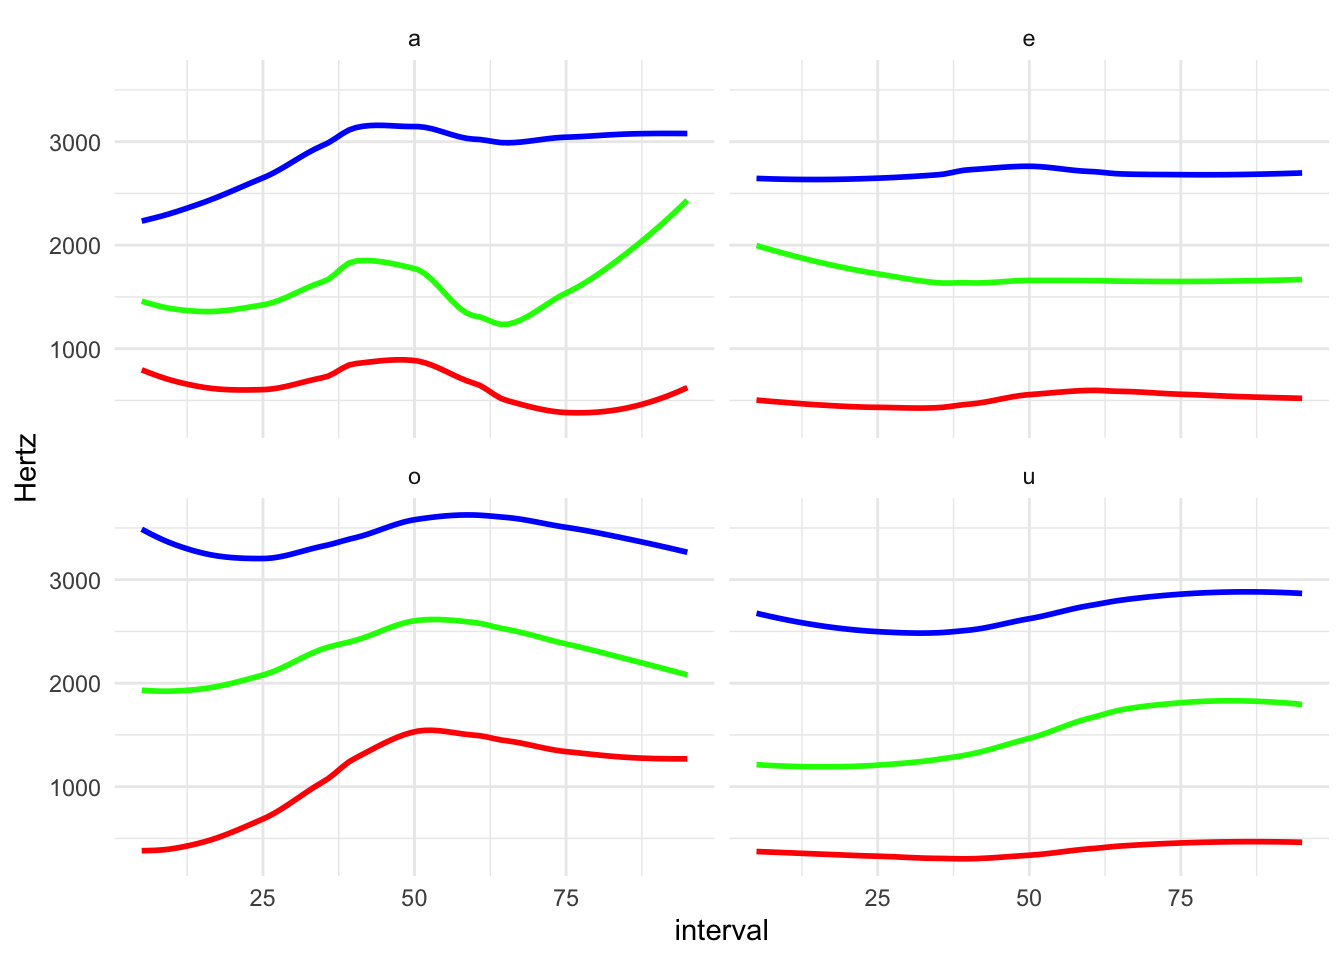
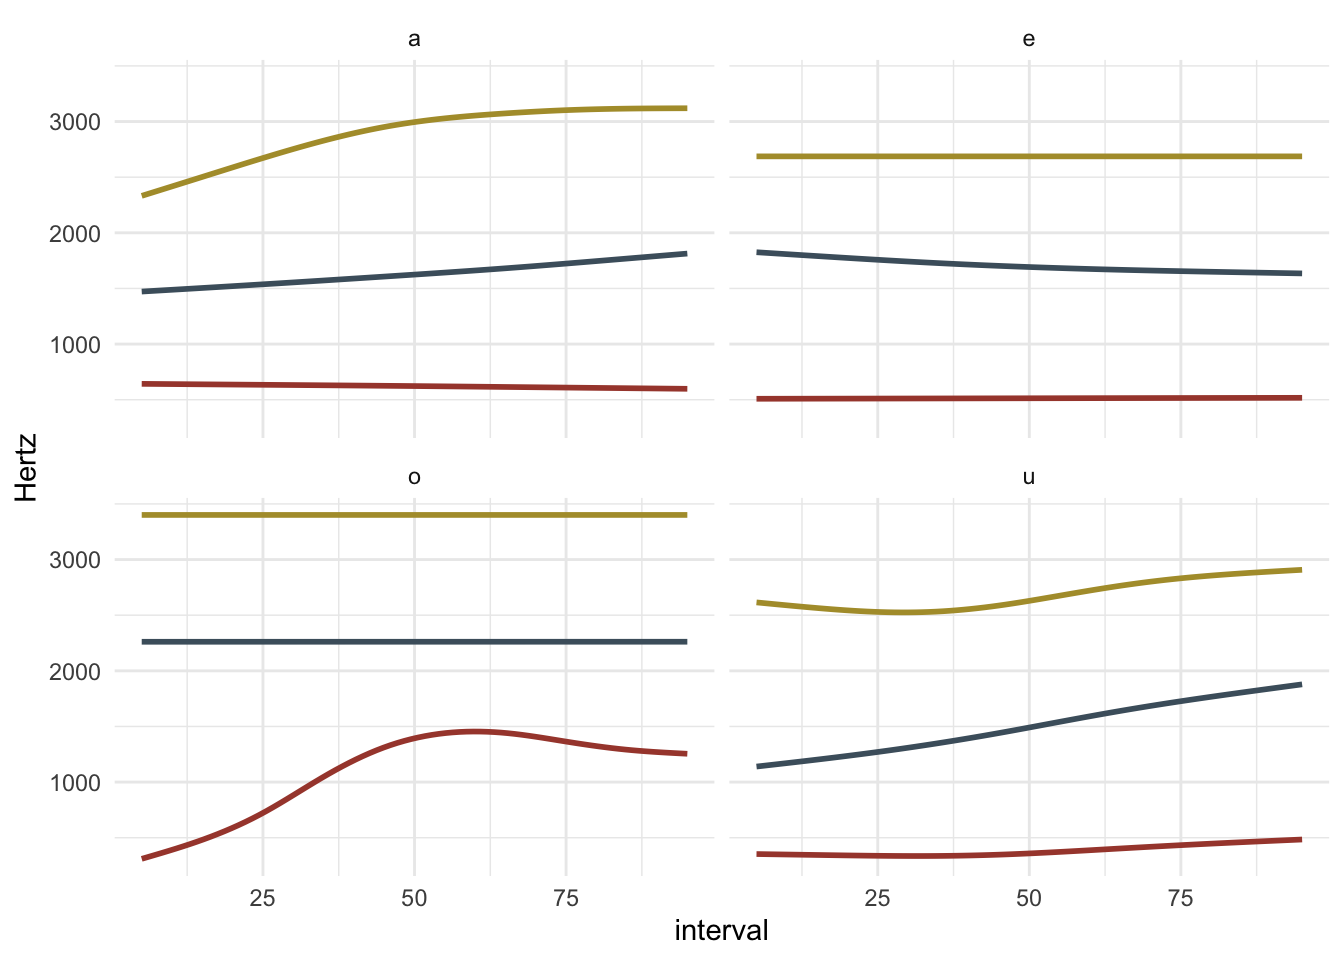
:bug: - use pivot functions

diff --git a/content/post/2018-03-02-formants-tidy/index.html b/content/post/2018-03-02-formants-tidy/index.html
@@ -23,13 +23,12 @@ cls: unified-style-sheet-for-linguistics.csl
 <script src="{{< blogdown/postref >}}index_files/header-attrs/header-attrs.js"></script>
 
 
-<p>With the advent of more powerful statistical methods for accessing time series data, it is now more common to compare whole vowel formant trajectories rather then just using average formant values.</p>
-<p>Sometimes, the output of the Praat script used for extracting formats data gives us a ‘wide format’ dataset.
-In this format, separate columns contain formant values for each interval within the vowel.
-Normally, values are extracted every 10% or 5% intervals within the vowel.</p>
-<p>To work with formant trajectories data in <code>R</code>, we need instead a ‘long format’ dataset.
-In a long format dataset, the percent intervals are layed out in rows, rather then columns.</p>
-<p>We start by reading in the formant data, which were kindly provided by <a href="http://tiny.cc/sjn">Stephen Nichols</a>.</p>
+<p>With the advent of more powerful statistical methods for assessing time series data, it is now becoming more common to compare whole vowel formant trajectories rather then just using average values.</p>
+<p>In this post I will show how to tidy a formant measurements dataset and plot formants using the tidyverse <span class="citation">(<a href="#ref-wickham2017" role="doc-biblioref">Wickham 2017</a>)</span>.</p>
+<div id="from-wide-to-long" class="section level1">
+<h1>From wide to long</h1>
+<p>To illustrate the process, I will use formant data that was kindly provided by <a href="http://tiny.cc/sjn">Stephen Nichols</a>.</p>
+<p>Let’s first read in the data.</p>
 <pre class="r"><code>trajectories &lt;- read_csv(&quot;./static/data/nichols-2018/tulemupepelako.csv&quot;)</code></pre>
 <pre><code>## 
 ## ── Column specification ────────────────────────────────────────────────────────
@@ -60,58 +59,62 @@ In a long format dataset, the percent intervals are layed out in rows, rather th
 ## #   F3_25 &lt;dbl&gt;, F3_30 &lt;dbl&gt;, F3_35 &lt;dbl&gt;, F3_40 &lt;dbl&gt;, F3_45 &lt;dbl&gt;,
 ## #   F3_50 &lt;dbl&gt;, F3_55 &lt;dbl&gt;, F3_60 &lt;dbl&gt;, F3_65 &lt;dbl&gt;, F3_70 &lt;dbl&gt;,
 ## #   F3_75 &lt;dbl&gt;, F3_80 &lt;dbl&gt;, F3_85 &lt;dbl&gt;, F3_90 &lt;dbl&gt;, F3_95 &lt;dbl&gt;</code></pre>
-<p>The dataset contains formant values of F1-F3 at 5% intervals for the vowels of the word <em>tulemupepelako</em> ‘we are praying for her’ (Bemba, [<code>bemb1257</code>]).
-It’s a toy dataset of course, just for purpose of illustration, so not very exciting!</p>
-<p>The values for each 5% interval for each formant are in separate columns.
-For plotting and modelling, though, we need the data to be in a ‘tidy’ format <span class="citation">(<a href="#ref-wickham2014" role="doc-biblioref">Wickham 2014</a>)</span>:</p>
-<ul>
-<li>each observation unit is in a separate row</li>
-<li>each variable is a separate column</li>
-</ul>
-<p>In our case, each observation unit is a 5% interval.
-As for the variables, they are: time in the recording, word, vowel, vowel duration, F1, F2, and F3.</p>
-<p>The first step towards a long format data set is to gather all the columns that have formant values to a column indicating the formant plus interval (like ‘F1_05’) and the value of that formant in that interval.
-We can use <code>gather()</code> for this.</p>
-<p>In the following chunks, I will illustrate the results of each step separately by saving the output of the functions to variables.
-Later in this post, you’ll find a pipe chain with all functions without intermediate outputs.</p>
-<pre class="r"><code>trajectories_gath &lt;- gather(trajectories, &quot;formant&quot;, &quot;value&quot;, F1_05:F3_95)
-trajectories_gath</code></pre>
+<p>The dataset contains formant values of F1-F3 at 5% intervals for the vowels in the word <em>tulemupepelako</em> ‘we are praying for her’ (Bemba, [<code>bemb1257</code>]).</p>
+<p>In the first step, we will create two columns, one with the formant/interval label and one with the formant value, using <code>pivot_longer()</code>.</p>
+<pre class="r"><code>trajectories_long &lt;- pivot_longer(
+  trajectories,
+  F1_05:F3_95,
+  names_to = &quot;formant_int&quot;,
+  values_to = &quot;value&quot;)
+
+trajectories_long</code></pre>
 <pre><code>## # A tibble: 399 x 6
-##     Time Vowel Word           Duration formant value
-##    &lt;dbl&gt; &lt;chr&gt; &lt;chr&gt;             &lt;dbl&gt; &lt;chr&gt;   &lt;dbl&gt;
-##  1  194. u     tulemupepelako     43.3 F1_05    406.
-##  2  194. e     tulemupepelako    103.  F1_05    503.
-##  3  194. u     tulemupepelako     14.1 F1_05    290.
-##  4  194. e     tulemupepelako     75.7 F1_05    440.
-##  5  194. e     tulemupepelako     68.2 F1_05    437.
-##  6  195. a     tulemupepelako     89.8 F1_05    800.
-##  7  195. o     tulemupepelako     98.5 F1_05    482.
-##  8  194. u     tulemupepelako     43.3 F1_10    439.
-##  9  194. e     tulemupepelako    103.  F1_10    517.
-## 10  194. u     tulemupepelako     14.1 F1_10    288.
+##     Time Vowel Word           Duration formant_int value
+##    &lt;dbl&gt; &lt;chr&gt; &lt;chr&gt;             &lt;dbl&gt; &lt;chr&gt;       &lt;dbl&gt;
+##  1  194. u     tulemupepelako     43.3 F1_05        406.
+##  2  194. u     tulemupepelako     43.3 F1_10        439.
+##  3  194. u     tulemupepelako     43.3 F1_15        453.
+##  4  194. u     tulemupepelako     43.3 F1_20        456.
+##  5  194. u     tulemupepelako     43.3 F1_25        430.
+##  6  194. u     tulemupepelako     43.3 F1_30        357.
+##  7  194. u     tulemupepelako     43.3 F1_35        314.
+##  8  194. u     tulemupepelako     43.3 F1_40        288.
+##  9  194. u     tulemupepelako     43.3 F1_45        286.
+## 10  194. u     tulemupepelako     43.3 F1_50        327.
 ## # … with 389 more rows</code></pre>
-<p>Now we have a column <code>formant</code> with the formant plus interval label, and a column <code>value</code> with its value (in Hertz in our case).</p>
-<p>The next step is to separate the label of the formant plus interval into two separate columns: one for <code>formant</code>, and one for <code>interval</code>.</p>
-<pre class="r"><code>trajectories_sep &lt;- separate(trajectories_gath, formant, c(&quot;formant&quot;, &quot;interval&quot;), convert = TRUE)
+<p>The next step is to separate the <code>formant_int</code> column into two columns: one for <code>formant</code>, and one for <code>interval</code>.
+The argument <code>convert = TRUE</code> ensures that the <code>interval</code> column is converted into a numeric column.</p>
+<pre class="r"><code>trajectories_sep &lt;- separate(
+  trajectories_long,
+  formant_int,
+  c(&quot;formant&quot;, &quot;interval&quot;),
+  convert = TRUE
+)
+
 trajectories_sep</code></pre>
 <pre><code>## # A tibble: 399 x 7
 ##     Time Vowel Word           Duration formant interval value
 ##    &lt;dbl&gt; &lt;chr&gt; &lt;chr&gt;             &lt;dbl&gt; &lt;chr&gt;      &lt;int&gt; &lt;dbl&gt;
 ##  1  194. u     tulemupepelako     43.3 F1             5  406.
-##  2  194. e     tulemupepelako    103.  F1             5  503.
-##  3  194. u     tulemupepelako     14.1 F1             5  290.
-##  4  194. e     tulemupepelako     75.7 F1             5  440.
-##  5  194. e     tulemupepelako     68.2 F1             5  437.
-##  6  195. a     tulemupepelako     89.8 F1             5  800.
-##  7  195. o     tulemupepelako     98.5 F1             5  482.
-##  8  194. u     tulemupepelako     43.3 F1            10  439.
-##  9  194. e     tulemupepelako    103.  F1            10  517.
-## 10  194. u     tulemupepelako     14.1 F1            10  288.
+##  2  194. u     tulemupepelako     43.3 F1            10  439.
+##  3  194. u     tulemupepelako     43.3 F1            15  453.
+##  4  194. u     tulemupepelako     43.3 F1            20  456.
+##  5  194. u     tulemupepelako     43.3 F1            25  430.
+##  6  194. u     tulemupepelako     43.3 F1            30  357.
+##  7  194. u     tulemupepelako     43.3 F1            35  314.
+##  8  194. u     tulemupepelako     43.3 F1            40  288.
+##  9  194. u     tulemupepelako     43.3 F1            45  286.
+## 10  194. u     tulemupepelako     43.3 F1            50  327.
 ## # … with 389 more rows</code></pre>
-<p>Now we can create individual columns for each formant from F1 to F3.
-We can achieve this with <code>spread()</code>.</p>
-<pre class="r"><code>trajectories_spr &lt;- spread(trajectories_sep, formant, value)
-trajectories_spr</code></pre>
+<p>Now we can put back the formant labels into one column each.
+We can achieve this with <code>pivot_wider()</code>, the counterpart of <code>pivo_longer()</code>.</p>
+<pre class="r"><code>trajectories_wide &lt;- pivot_wider(
+  trajectories_sep,
+  names_from = formant,
+  values_from = value
+)
+
+trajectories_wide</code></pre>
 <pre><code>## # A tibble: 133 x 8
 ##     Time Vowel Word           Duration interval    F1    F2    F3
 ##    &lt;dbl&gt; &lt;chr&gt; &lt;chr&gt;             &lt;dbl&gt;    &lt;int&gt; &lt;dbl&gt; &lt;dbl&gt; &lt;dbl&gt;
@@ -126,32 +129,37 @@ trajectories_spr</code></pre>
 ##  9  194. u     tulemupepelako     43.3       45  286. 1712. 2461.
 ## 10  194. u     tulemupepelako     43.3       50  327. 1747. 2470.
 ## # … with 123 more rows</code></pre>
-<p>What we have now is a long format dataset, with separate columns for each formant, and individual rows for each vowel interval.</p>
-<div id="the-pipe-chain" class="section level2">
-<h2>The pipe chain</h2>
-<p>All the steps above can be chained by using the pipe <code>%&gt;%</code>.</p>
+<p>We now have a dataset with separate columns for each formant and individual rows for each vowel interval.</p>
+<div id="the-pipe" class="section level2">
+<h2>The pipe</h2>
+<p>All the individual steps above can be chained by using the pipe <code>%&gt;%</code>.
+What the pipe does is simply “transferring” the output of the function before it as the input of the function after it.</p>
 <pre class="r"><code>trajectories &lt;- trajectories %&gt;%
-  gather(&quot;formant&quot;, &quot;value&quot;, F1_05:F3_95) %&gt;%
-  separate(formant, c(&quot;formant&quot;, &quot;interval&quot;), convert = TRUE) %&gt;%
-  spread(formant, value)</code></pre>
-<p>We can finally easily plot the formant trajectories.</p>
+  pivot_longer(F1_05:F3_95, names_to = &quot;formant_int&quot;, values_to = &quot;value&quot;) %&gt;%
+  separate(formant_int, c(&quot;formant&quot;, &quot;interval&quot;), convert = TRUE) %&gt;%
+  pivot_wider(names_from = formant, values_from = value)</code></pre>
+</div>
+</div>
+<div id="plot" class="section level1">
+<h1>Plot</h1>
+<p>We can finally plot the formant trajectories.</p>
 <pre class="r"><code>trajectories %&gt;%
   ggplot(aes(x = interval)) +
-  geom_smooth(aes(y = F1), se = FALSE, colour = &quot;red&quot;) +
-  geom_smooth(aes(y = F2), se = FALSE, colour = &quot;green&quot;) +
-  geom_smooth(aes(y = F3), se = FALSE, colour = &quot;blue&quot;) +
+  geom_smooth(aes(y = F1), method = &quot;gam&quot;, se = FALSE, colour = &quot;#A7473A&quot;) +
+  geom_smooth(aes(y = F2), method = &quot;gam&quot;, se = FALSE, colour = &quot;#4B5F6C&quot;) +
+  geom_smooth(aes(y = F3), method = &quot;gam&quot;, se = FALSE, colour = &quot;#B09B37&quot;) +
   facet_wrap(~ Vowel) +
   ylab(&quot;Hertz&quot;)</code></pre>
-<pre><code>## `geom_smooth()` using method = &#39;loess&#39; and formula &#39;y ~ x&#39;
-## `geom_smooth()` using method = &#39;loess&#39; and formula &#39;y ~ x&#39;
-## `geom_smooth()` using method = &#39;loess&#39; and formula &#39;y ~ x&#39;</code></pre>
+<pre><code>## `geom_smooth()` using formula &#39;y ~ s(x, bs = &quot;cs&quot;)&#39;
+## `geom_smooth()` using formula &#39;y ~ s(x, bs = &quot;cs&quot;)&#39;
+## `geom_smooth()` using formula &#39;y ~ s(x, bs = &quot;cs&quot;)&#39;</code></pre>
 <p><img src="{{< blogdown/postref >}}index_files/figure-html/trajectory-plot-1.png" width="672" /></p>
-</div>
 <div id="references" class="section level2 unnumbered">
 <h2>References</h2>
 <div id="refs" class="references csl-bib-body hanging-indent">
-<div id="ref-wickham2014" class="csl-entry">
-Wickham, Hadley. 2014. <span>“Tidy Data.”</span> <em>Journal of Statistical Software</em> 59 (10): 1–23. <a href="https://doi.org/10.18637/jss.v059.i10">https://doi.org/10.18637/jss.v059.i10</a>.
+<div id="ref-wickham2017" class="csl-entry">
+Wickham, Hadley. 2017. <span>“Tidyverse: Easily Install and Load the <span>‘Tidyverse’</span>.”</span> R package version 1.2.1.
+</div>
 </div>
 </div>
 </div>

diff --git a/content/post/2021-03-28-methods-as-theory/index.html b/content/post/2021-03-28-methods-as-theory/index.html
@@ -3,8 +3,15 @@ title: Methods as theory
 author: 'Stefano Coretta'
 date: '2021-03-28'
 slug: methods-as-theory
-categories: []
-tags: []
+categories:
+  - Methods
+  - Meta-models
+tags:
+  - science
+  - theory
+  - concepts
+  - methods
+  - methods-as-theory
 bibliography: /Users/ste/texmf/bibtex/bib/linguistics.bib
 cls: unified-style-sheet-for-linguistics.csl
 output:
@@ -42,7 +49,7 @@ This dichotomy is also reflected in the classification of academic papers as the
 <h1><span class="header-section-number">2</span> Are methods not theory?</h1>
 <p>At first sight, one might think that methods are not part of theory, but rather that they are just the means with which one builds a theory by gathering evidence.
 The following schematics illustrates this relation.</p>
-<div id="htmlwidget-1" style="width:672px;height:200px;" class="DiagrammeR html-widget"></div>
+<div id="htmlwidget-1" style="width:350px;height:200px;" class="DiagrammeR html-widget"></div>
 <script type="application/json" data-for="htmlwidget-1">{"x":{"diagram":"graph LR; A(Methods)-->B(evidence 1); A-->C(evidence 2); A-->D(...); B-->E(THEORY); C-->E; D-->E"},"evals":[],"jsHooks":[]}</script>
 <p>Under this <span class="smallcaps">methods-for-theory</span> view, a set of methods (from experimental design, through recruitment, data processing, to statistical modelling) is secondary to the theory.
 Methods are seen as accessory to theory building, but not part of the resulting theory.</p>
@@ -53,7 +60,7 @@ Methods are seen as accessory to theory building, but not part of the resulting 
 <p>A different conceptualisation of theory sees it as the interaction between <span class="smallcaps">concepts</span> and <span class="smallcaps">methods</span>.
 Both components are theoretical, in the sense that they are the building blocks necessary to build a theory in the first place.</p>
 <p>The <span class="smallcaps">methods-as-theory</span> view is represented in the following graph.</p>
-<div id="htmlwidget-2" style="width:672px;height:200px;" class="DiagrammeR html-widget"></div>
+<div id="htmlwidget-2" style="width:450px;height:200px;" class="DiagrammeR html-widget"></div>
 <script type="application/json" data-for="htmlwidget-2">{"x":{"diagram":"graph TB; A{THEORY}---B(CONCEPTS); A---C(METHODS); B---D(concept 1); B---E(concept 2); B---F(...); C---G(evidence 1); C---H(evidence 2); C---I(...)"},"evals":[],"jsHooks":[]}</script>
 <p>With <em>concept</em>, I mean any statement, hypothesis, law, rule, constraint, principle, observation that is part of a particular theory.</p>
 <p>For example, Heisenberg’s uncertainty principle is a fundamental concept of quantum mechanics.</p>
